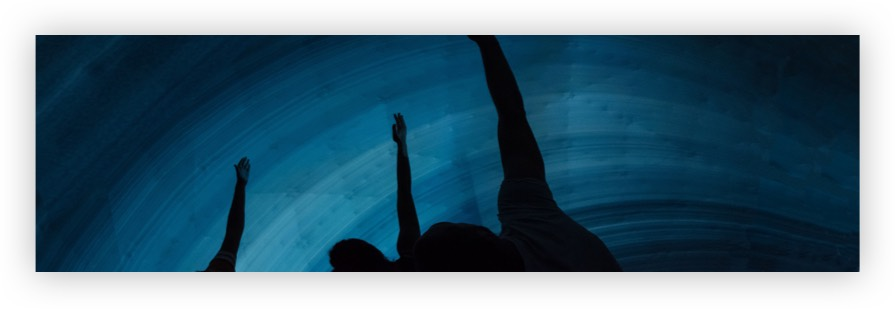
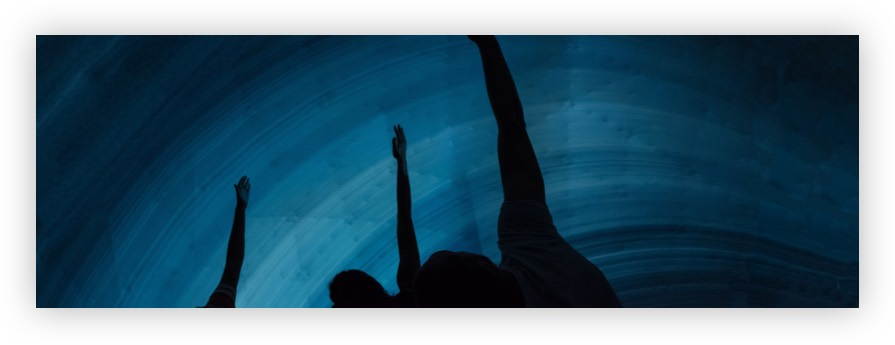
tweak header for responsiveness

diff --git a/src/components/header.js b/src/components/header.js
@@ -11,6 +11,7 @@ import swoop from '../data/images/swoop.png'
 
 const Banner = styled.div`
   background: no-repeat center url(${bannerImage});
+  min-height: 270px;
   height: 30vh;
   display: flex;
   justify-content: center;
@@ -36,9 +37,8 @@ const Banner = styled.div`
     }
   }
   @media (max-width: 550px) {
-    height: 22vh;
     max-height: 230px;
-    min-height: 155px;
+    min-height: 230px;
     background: linear-gradient(
         -90deg,
         #021626 0%,
@@ -123,7 +123,14 @@ const Navbar = styled.nav`
 
 const Header = ({ siteTitle }) => (
   <ThemeProvider theme={theme}>
-    <div style={{ position: 'relative', zIndex: '10' }}>
+    <div
+      style={{
+        position: 'relative',
+        zIndex: '10',
+        maxWidth: '1440px',
+        margin: '0 auto',
+      }}
+    >
       <Link style={{ textDecoration: 'none' }} to="/">
         <Banner>
           <MainTitle>{siteTitle}</MainTitle>

diff --git a/src/pages/index.js b/src/pages/index.js
@@ -40,6 +40,7 @@ const TabletImg = styled.img`
 
 const Container = styled.section`
   background: no-repeat center url(${paintBG});
+  background-size: cover;
   display: flex;
   justify-content: space-between;
   position: relative;

diff --git a/src/layouts/index.scss b/src/layouts/index.scss
@@ -28,7 +28,8 @@ html {
 }
 
 body {
-  margin: 0;
+  max-width: 1440px;
+  margin: 0 auto;
   background-color: #000b14;
   text-rendering: optimizeLegibility;
   -webkit-font-smoothing: antialiased;
